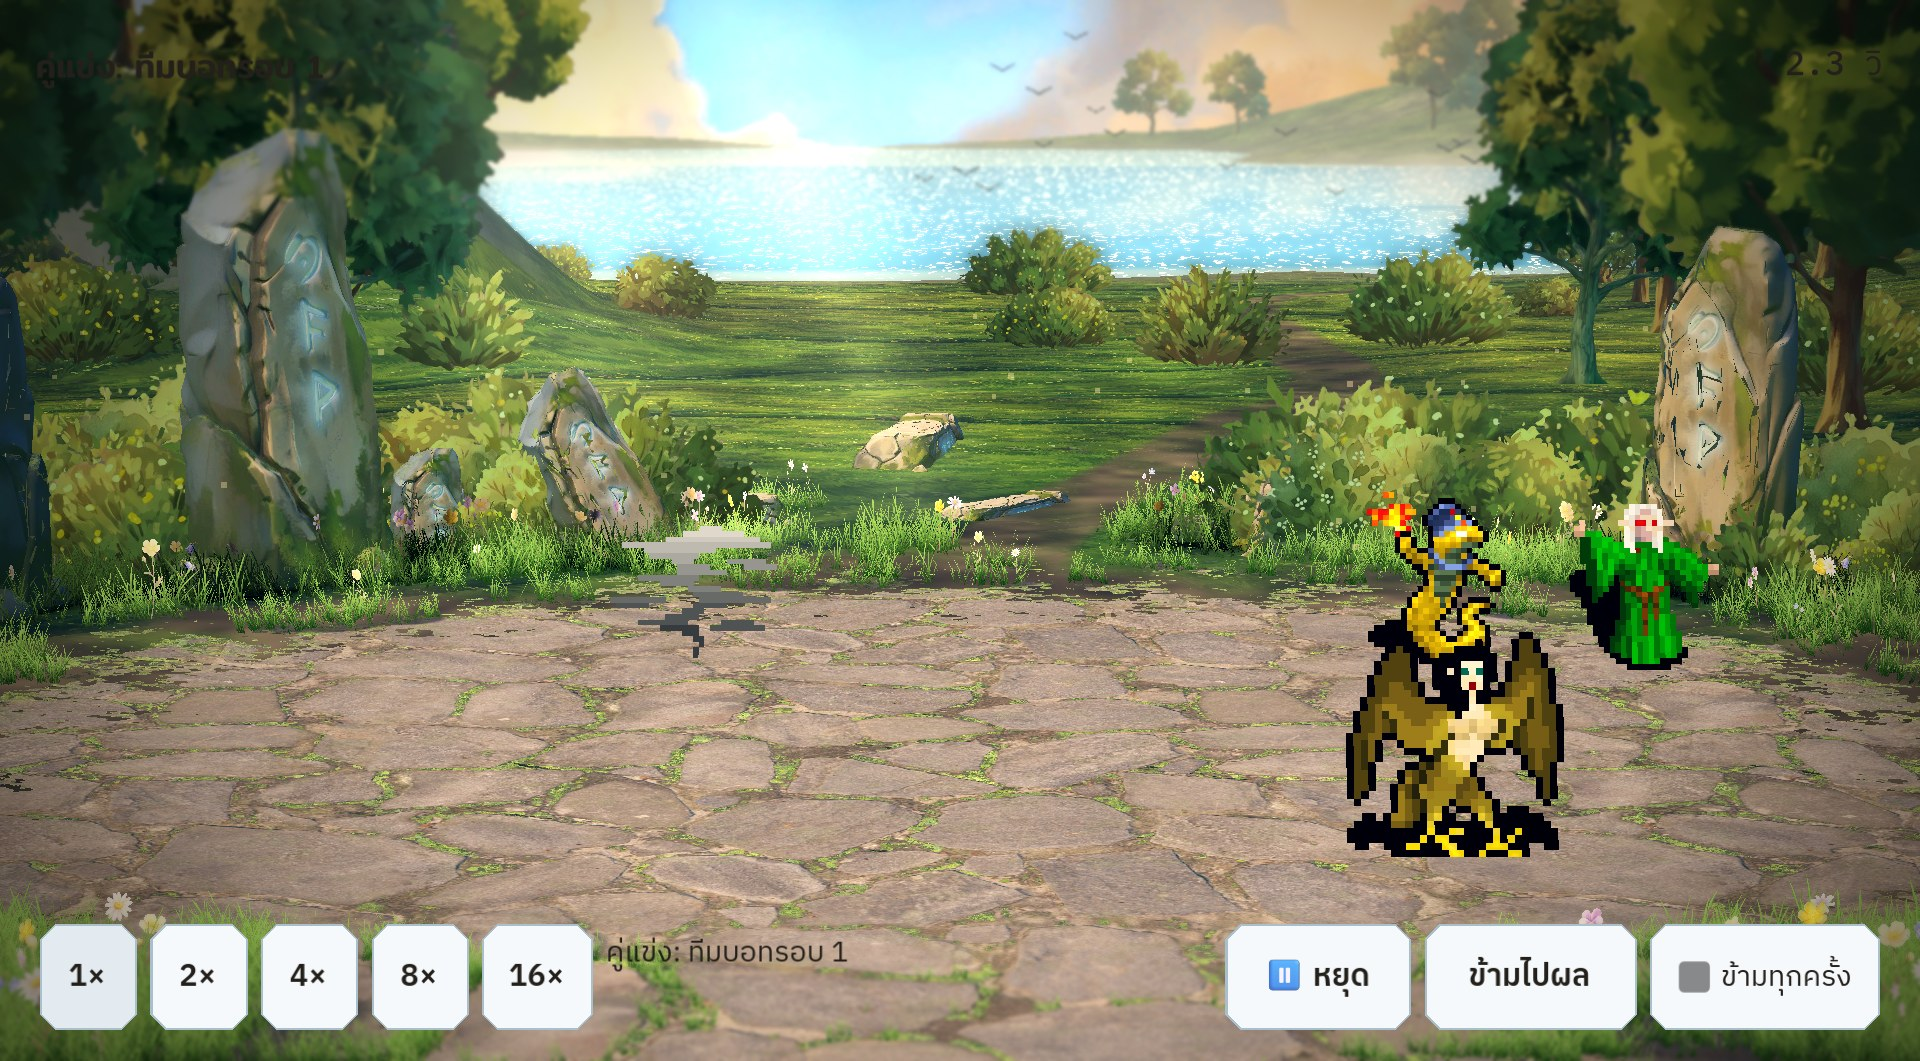
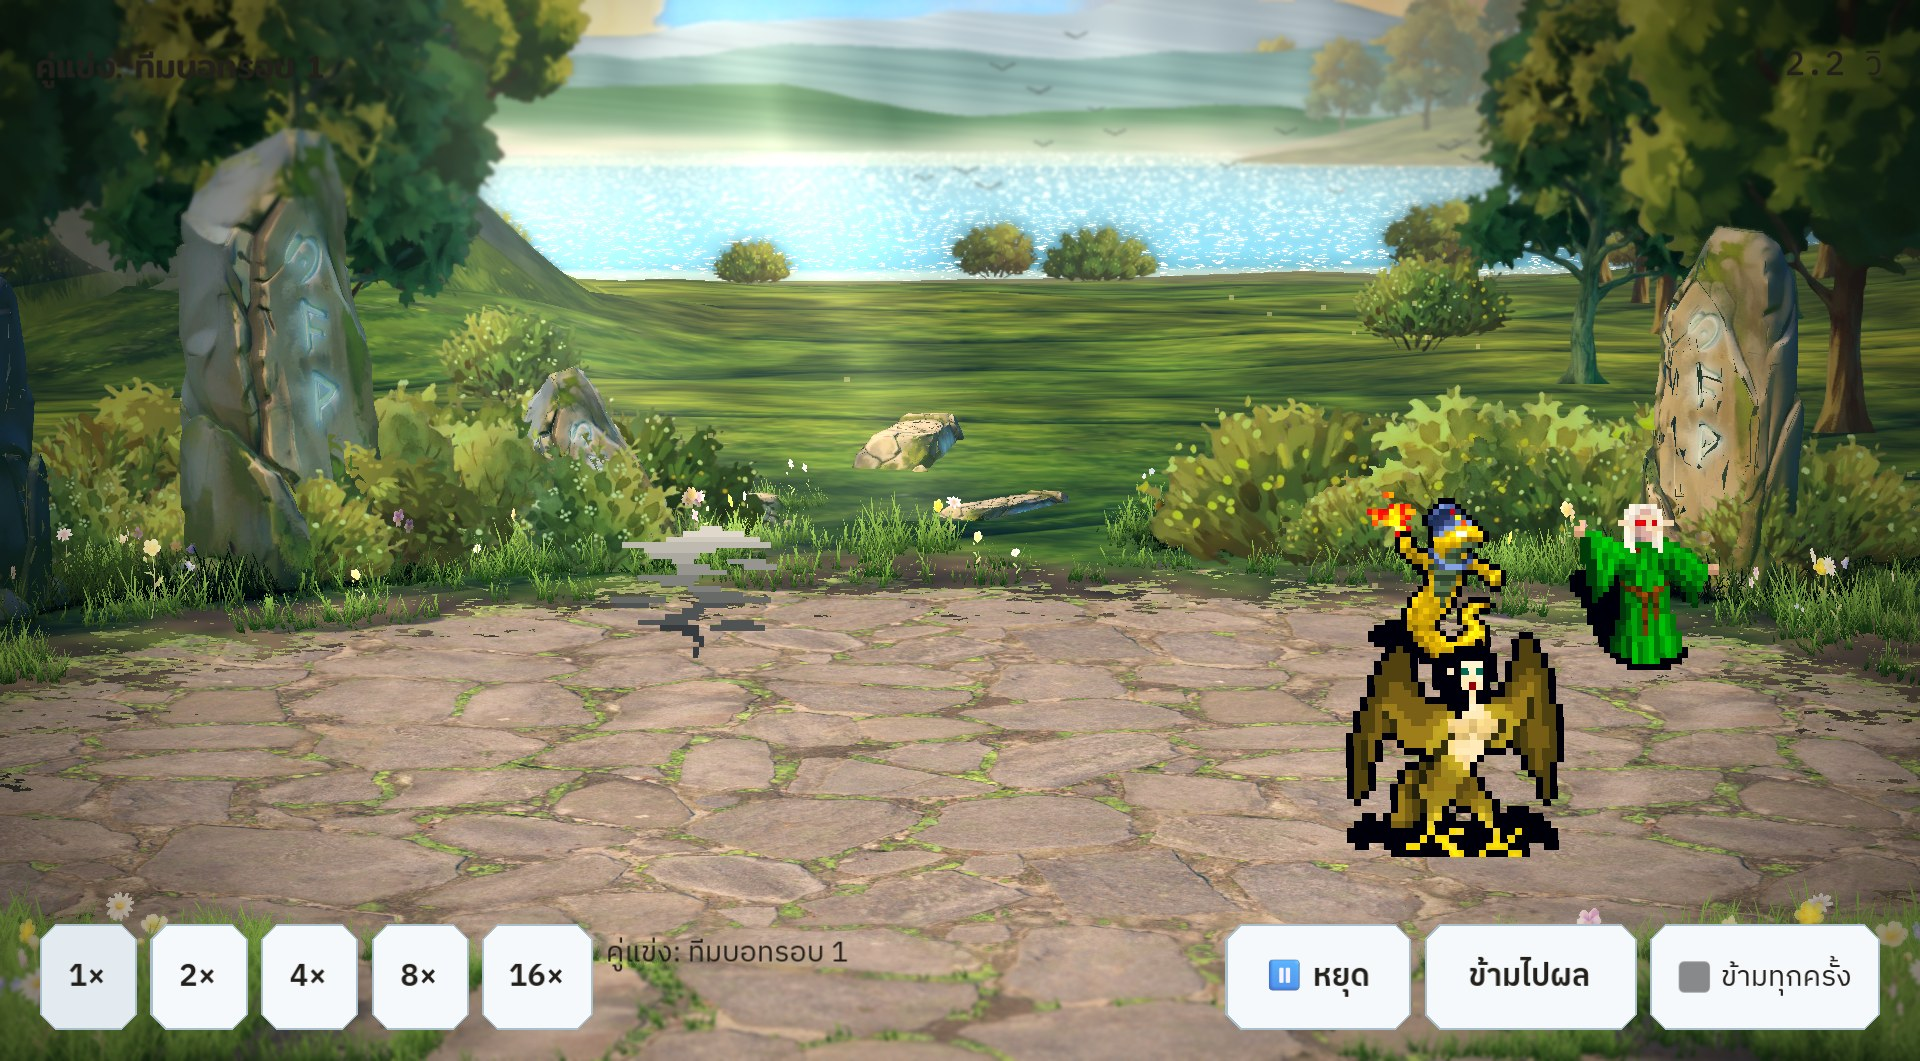
set 237: paths removed, layered mountain ridges + mist behind the lake, r37 re-baked; stills, code copies, plan, Relay

diff --git a/claude/handoff.md b/claude/handoff.md
@@ -2,7 +2,7 @@
 Read by Claude every new chat. Keep ≤ 1 screen: Relay = newest 2 sets + open WIP sets (set 211 B1), trim at every close-out; move finished items to claude/archive/ (full pre-trim copy: archive/handoff-2026-10-30-full.md). User gets a Thai summary in chat at the end of each task set.
 
 ## Relay (two accounts take turns — rules in claude/workflow/relay.md · full pre-trim block: archive/relay/relay-2026-10-31.md)
-- **Set 237 (15 Nov, PC · docs → main · WIP in the scratch Godot copy · no gate · no values · no publish).** Owner: rebuild the arena as a REAL 3D meadow like their AI overhead picture (A1) · keep the r36 camera (B) · build for real (C2). Done: meadow height + paths + lake basin + left ridge + tree belts → baked `<g>/art/arena_r37/arena_r37.tscn` (13 MB, view check OK) · stills claude/preview-set237/ · code copies preview-set230/s226.gd.txt + s233_terrain.gdshader.txt + r37_args.txt. **Open:** owner pick on the art-style §8 ban (dirt path mid-frame) → plan-set237.md step 4–5, then set 236 step 4 ports arena_r37.
+- **Set 237 (15 Nov, PC · docs → main · WIP in the scratch Godot copy · no gate · no values · no publish).** Owner: rebuild the arena as a REAL 3D meadow like their AI overhead picture (A1) · keep the r36 camera (B) · build for real (C2). Done: meadow height + paths + lake basin + left ridge + tree belts → baked `<g>/art/arena_r37/arena_r37.tscn` (13 MB, view check OK) · stills claude/preview-set237/ · code copies preview-set230/s226.gd.txt + s233_terrain.gdshader.txt + r37_args.txt. Owner then: paths removed (ban no longer hit) + 3 layered mountain ridges with mist behind the lake → re-baked. **Next:** plan-set237.md step 6 (art-style §8: r37 = arena), then set 236 step 4 ports arena_r37. Owner may hand-edit arena_r37.tscn: never re-bake over a newer file time without asking.
 - **Set 236 (15 Nov, PC · docs → main d40aab9 · WIP in the scratch Godot copy · no gate · no values · no publish).** Owner: r36 arena ทำจริง — A1 editable scene · r36 camera · C1 compressed files · D1 stand-ins local-only (art-style V2.3 §8). Steps 1–3 done: bake tool → self-contained `<g>/art/arena_r36/` (tscn + webp + meshes ≈ 12 MB, + Slots markers), view check = r36. **Next:** plan-set236.md step 4 (port into a fresh `claude/arena-r36` branch; owner questions listed there).
 - **Set 235 (15 Nov, PC · docs → main · SAMPLE in the scratch Godot copy · no gate · no values · no publish).** Rounds 25–36 (preview-set230/notes.md · r36_args.txt · s226.gd.txt): bigger slabs, sky tint, corner grass + flowers, fake unit shadows, birds · AI picture 2 → owner trees/bushes keyed (art/library/pictures/s235) → trees, back bushes, back rocks, lakeside tree line. **Next:** owner names the r36 tweak (offered: tree-line mist · right tree blocking it · meadow slope · bushes over the small left stone) → ทำจริง (rule-change art-style §8 → ui-work → merge-code gate).
 - **Set 217 (13–14 Nov, PC · SAMPLE — NO MERGE: ccr-882ceb4b-0ewtk1, last ecd24e1 · ui-preview R1–R20 + P0–P1t · no gate · no values · no publish · test_ui still pins old camera numbers).** Rune-meadow arena, FF Resonance framing + HD-2D look; owner camera A2 = FOV 19.2 / PITCH 14; owner hand-arranged stones (edit the .tscn, never regenerate s217_make_r6.gd); all art = placeholder. Details + rebuild order: `ccr-882ceb4b-0ewtk1:claude/preview-set217/notes.md` · gaps: claude/review-2026-11-14-hd2d-gaps.md. **Next (set 221: owner saw P1t, picked A3 = PAUSED until owner art arrives: new grass picture, stones a–e + rock sheet, flowers, 64×64 unit sprites idle/attack/hit/die):** then A3 phase 2/3 · later A1 phase 4 colour pass (art-look-ref §9 ideas) · A2 ทำจริง (rule-change art-style §8 camera + ui-work on a fresh branch from main, update test_ui, gate) · A3 phase 2/3 when owner art arrives.

diff --git a/claude/plan-set237.md b/claude/plan-set237.md
@@ -9,12 +9,11 @@ Security line (HARD RULE 9): same as set 236. Only the owner's AI trees/bushes, 
 1. [x] Meadow height `th237()` in `tests/s233_terrain.gdshader` + `_s237_th()` in `tests/s226.gd` (change both). Flat meadow to z −60, gentle drop to the lake shore at z ≈ −105, lake basin centred (−15, −172) r 150×72, water `wl=-2`, rock ridge (−16,−46)→(−62,−122) with a steep meadow-side face + rock tint on slopes, right hills from x 18, hills/mountains past dm 110 (back half only). Paths `path237()` / `_s237_path()`: left↔right across the plaza, and from the plaza back (x≈3) winding to the lake.
 2. [x] Placement `_s237_trees` (belts measured off the picture: sides z −22…−72, front sides, right hill, left lakeside, far shore, ridge-top row; ≥ 3.6 m apart, dry land only, off the paths, outside r 17.5) + 26 meadow shrubs + 16 owner rock meshes on the ridge face (`_s237_ridge_rocks`). Bush ring skips the path.
 3. [x] Args `claude/preview-set230/r37_args.txt` (= r36 + `meadow=1 wl=-2 hc2=0 tpath=1 rmid=12` + mist over the lake). Bake → `<g>/art/arena_r37/arena_r37.tscn` (900 nodes, 13 MB, self-contained). View check `ARENA=res://art/arena_r37/arena_r37.tscn` + `tests/s236_view.gd` = OK.
-4. [ ] **Owner decision (conflict):** art-style §8 ban (owner, 7 Nov) = "meadow + big trees with light shafts + winding stream + dirt path in the middle of the frame". r37 has the back path in mid-frame (no stream; the sun-shaft card from r36 is still there). Stills: `claude/preview-set237/r37-game.jpg` (path) vs `r37-game-nopath.jpg`.
-5. [ ] After the pick: rule-change art-style §8 (r37 = the arena, ban wording) + re-bake if the path changes → plan-set236 step 4 uses `arena_r37` instead of `arena_r36`.
-
-- Owner 15 Nov: backdrop behind the lake back like r36 (far hills card `hc2=1`) → re-baked.
+4. [x] Owner 15 Nov: **paths removed** (`tpath=0`; trees/bushes no longer keep gaps for them), so the §8 ban ("dirt path mid-frame") is no longer hit; no ban change needed.
+5. [x] Owner 15 Nov: **layered mountains behind the lake** like the picture: `_s237_layers` = 3 own procedural ridge quads (z −282/−290/−298, just in front of the sky card at −300; near green → far pale blue, sharper peaks far, no fog on them) + mist at their feet (`mist=22 mz 255–280 mty −1`); terrain's own mountains off (`mtk=0`, both copies have `mt_k`); the r36 hills card is off again (`hc2=0`). Re-baked arena_r37 (3 S237Range nodes), view check OK. Full args: preview-set230/r37_args.txt.
+6. [ ] rule-change art-style §8: r37 = the arena (replaces r36) → plan-set236 step 4 ports `arena_r37`.
 
 ## Known gaps
-- With the 8.5° camera, mountains above ~15 m sit above the top of the frame; only their feet show (the owner kept the camera).
+- With the 8.5° camera the frame top is ~1° above the horizon: the far ridge peaks are cut by the frame (the owner kept the camera).
 - Overhead views show horizontal shadow stripes on the far ground (shadow cascades on the displaced terrain; not in the game view).
 - Units in the in-game check are still the old main sizes (stage3d port = set 236 step 4).
